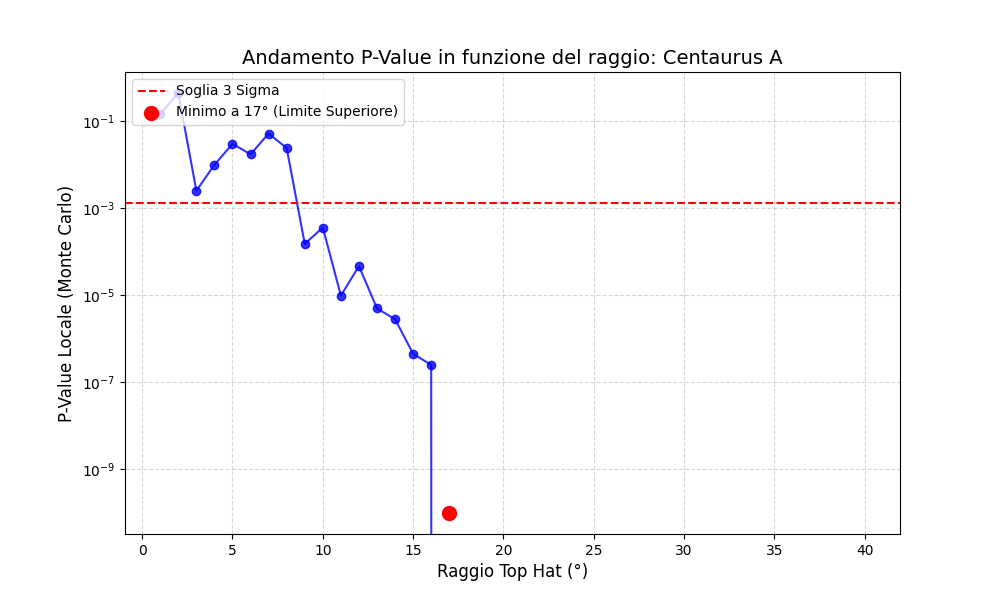
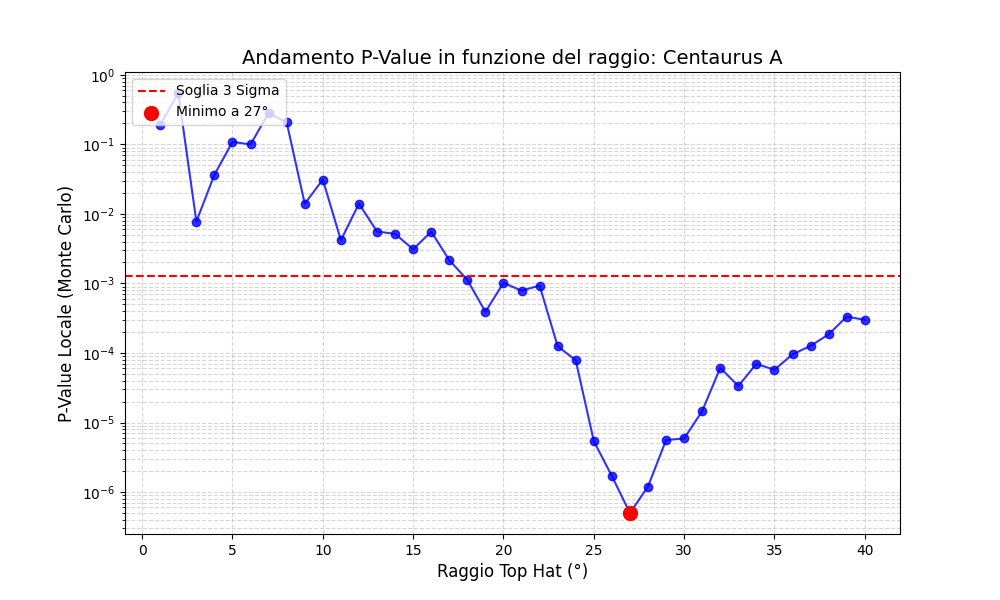
correzione coordinate celesti ed equatoriali

diff --git a/astroNGC5128sEDscan.py b/astroNGC5128sEDscan.py
@@ -1,0 +1,188 @@
+import os
+import pandas as pd
+import numpy as np
+import matplotlib.pyplot as plt
+import healpy as hp
+import scipy.stats as stats
+import time
+from matplotlib.colors import LogNorm
+from astropy.coordinates import SkyCoord
+import astropy.units as u
+
+def carica_dati(filepath):
+    """Carica e pulisce il dataset di Auger."""
+    df = pd.read_csv(filepath, sep='\t+', engine='python')
+    df.columns = [c.strip().replace('#', '') for c in df.columns]
+    return df
+
+def calcola_distanza_angolare(ra1, dec1, ra2, dec2):
+    """Calcola la distanza angolare sferica tra due punti in gradi."""
+    ra1_rad, dec1_rad = np.radians(ra1), np.radians(dec1)
+    ra2_rad, dec2_rad = np.radians(ra2), np.radians(dec2)
+    
+    cos_theta = (np.sin(dec1_rad) * np.sin(dec2_rad) + 
+                 np.cos(dec1_rad) * np.cos(dec2_rad) * np.cos(ra1_rad - ra2_rad))
+    cos_theta = np.clip(cos_theta, -1.0, 1.0) 
+    return np.degrees(np.arccos(cos_theta))
+
+def calcola_frazione_esposizione(expo_map, ra_src, dec_src, raggi):
+    """
+    Calcola analiticamente la frazione di esposizione totale contenuta 
+    in vari raggi attorno alla sorgente usando Healpy.
+    """
+    nside = hp.get_nside(expo_map)
+    expo_pulita = np.where(expo_map > 0, expo_map, 0)
+    tot_expo = np.sum(expo_pulita)
+    
+    # CONVERSIONE: Da Coordinate Equatoriali (RA, Dec) a Galattiche (l, b)
+    c = SkyCoord(ra=ra_src*u.degree, dec=dec_src*u.degree, frame='icrs')
+    l_gal = c.galactic.l.degree
+    b_gal = c.galactic.b.degree
+    
+    # Vettore 3D della sorgente per healpy (usando la colatitudine galattica)
+    vec_src = hp.ang2vec(np.radians(90 - b_gal), np.radians(l_gal))
+    
+    frazioni = np.zeros(len(raggi))
+    for i, r in enumerate(raggi):
+        # Trova tutti i pixel dentro il raggio specificato
+        pixel_in_raggio = hp.query_disc(nside, vec_src, np.radians(r))
+        # Somma l'esposizione di questi pixel e dividi per il totale
+        frazioni[i] = np.sum(expo_pulita[pixel_in_raggio]) / tot_expo
+        
+    return frazioni
+
+def scan_2d_energia_raggio(df, frazioni_attese, ra_src, dec_src, raggi, energie):
+    """
+    Esegue lo scan bidimensionale. Per ogni energia e ogni raggio calcola 
+    il p-value di Poisson rispetto all'isotropia pesata.
+    """
+    p_values_2d = np.zeros((len(energie), len(raggi)))
+    osservati_2d = np.zeros((len(energie), len(raggi)))
+    attesi_2d = np.zeros((len(energie), len(raggi)))
+    
+    distanze_all = calcola_distanza_angolare(df['RA'], df['Dec'], ra_src, dec_src)
+    
+    min_pval = 1.0
+    best_E = 0
+    best_R = 0
+    best_oss = 0
+    best_att = 0
+
+    print("\n---> Avvio Scan 2D (Energia vs Raggio)...")
+    
+    for i, e_th in enumerate(energie):
+        maschera_energia = df['E'] >= e_th
+        n_eventi_totali_rimasti = np.sum(maschera_energia)
+        distanze_tagliate = distanze_all[maschera_energia]
+        
+        for j, r in enumerate(raggi):
+            oss = np.sum(distanze_tagliate <= r)
+            att = n_eventi_totali_rimasti * frazioni_attese[j]
+            
+            if oss > 0:
+                pval = stats.poisson.sf(oss - 1, att)
+            else:
+                pval = 1.0
+                
+            p_values_2d[i, j] = pval
+            osservati_2d[i, j] = oss
+            attesi_2d[i, j] = att
+            
+            if pval < min_pval:
+                min_pval = pval
+                best_E = e_th
+                best_R = r
+                best_oss = oss
+                best_att = att
+
+    print("=========================================================")
+    print(" RISULTATI SCAN 2D: MASSIMO ECCESSO LOCALE TROVATO")
+    print("=========================================================")
+    print(f" Energia di Soglia (E_th) : >= {best_E} EeV")
+    print(f" Raggio (Top-Hat)         : {best_R}°")
+    print(f" Eventi Osservati         : {best_oss}")
+    print(f" Eventi Attesi dal fondo  : {best_att:.2f}")
+    print(f" P-Value (Poisson)        : {min_pval:.3e}")
+    print(f" Significatività (Sigma)  : {stats.norm.isf(min_pval):.2f} σ")
+    print("=========================================================\n")
+
+    return p_values_2d, min_pval, best_E, best_R
+
+def plot_heatmap_2d(p_values_2d, raggi, energie, best_E, best_R, out_dir):
+    """Genera la mappa di calore 2D (Energia vs Raggio) in stile Auger."""
+    os.makedirs(out_dir, exist_ok=True)
+    
+    plt.figure(figsize=(10, 7))
+    
+    R_mesh, E_mesh = np.meshgrid(
+        np.append(raggi - 0.5, raggi[-1] + 0.5), 
+        np.append(energie - 0.5, energie[-1] + 0.5)
+    )
+    
+    mesh = plt.pcolormesh(R_mesh, E_mesh, p_values_2d, 
+                          norm=LogNorm(vmin=1e-7, vmax=1.0), 
+                          cmap='hot_r', shading='flat')
+    
+    cbar = plt.colorbar(mesh)
+    cbar.set_label('Local P-Value', fontsize=14)
+    
+    # Sintassi r"..." usata per evitare i SyntaxWarning
+    plt.scatter(best_R, best_E, color='white', marker='P', s=200, edgecolors='black', 
+                label=rf'Minimo Locale ({best_R}°, $\geq${best_E} EeV)')
+    
+    plt.title('Scan 2D P-Value: Regione di Centaurus A', fontsize=16)
+    plt.xlabel(r'Raggio Top-Hat, $\Psi$ [gradi]', fontsize=14)
+    plt.ylabel(r'Energia di Soglia, $E_{th}$ [EeV]', fontsize=14)
+    
+    plt.xlim(raggi[0]-0.5, raggi[-1]+0.5)
+    plt.ylim(energie[0]-0.5, energie[-1]+0.5)
+    plt.legend(loc='lower left')
+    plt.grid(True, which='both', linestyle='--', alpha=0.3, color='black')
+    
+    save_path = os.path.join(out_dir, 'fig5_centaurus_2d_scan.png')
+    plt.savefig(save_path, bbox_inches='tight', dpi=300)
+    plt.close()
+    
+    print(f"Heatmap 2D salvata in: {save_path}")
+
+if __name__ == "__main__":
+    
+    RA_CEN_A = 201.3
+    DEC_CEN_A = -43.0
+    
+    cartella_output = 'plotsNGC5128_Scan2D'
+    file_dati = 'auger.txt'
+    file_esposizione = 'exposure.fits'
+    
+    RAGGI_SCAN = np.arange(1.0, 31.0, 1.0)       
+    ENERGIE_SCAN = np.arange(32.0, 81.0, 1.0)    
+    
+    os.makedirs(cartella_output, exist_ok=True)
+    start_total_time = time.perf_counter()
+    
+    dataset = carica_dati(file_dati)
+    print(f"Dati caricati: {len(dataset)} eventi trovati.")
+    
+    try:
+        expo_map = hp.read_map(file_esposizione)
+        nside = hp.get_nside(expo_map)
+        print(f"Mappa Healpix caricata (NSIDE={nside}).")
+    except Exception as e:
+        print(f"ERRORE: Impossibile caricare {file_esposizione}.")
+        exit()
+        
+    print(f"Calcolo esatto delle frazioni di esposizione attorno a Cen A...")
+    frazioni_attese = calcola_frazione_esposizione(expo_map, RA_CEN_A, DEC_CEN_A, RAGGI_SCAN)
+    
+    p_values_2d, p_min, b_E, b_R = scan_2d_energia_raggio(
+        df=dataset, 
+        frazioni_attese=frazioni_attese, 
+        ra_src=RA_CEN_A, dec_src=DEC_CEN_A, 
+        raggi=RAGGI_SCAN, 
+        energie=ENERGIE_SCAN
+    )
+    
+    plot_heatmap_2d(p_values_2d, RAGGI_SCAN, ENERGIE_SCAN, b_E, b_R, cartella_output)
+    
+    end_total_time = time.perf_counter()
+    print(f"\nOperazione completata in {end_total_time - start_total_time:.2f} secondi.")

diff --git a/astroNGC5128CutE.py b/astroNGC5128CutE.py
@@ -6,6 +6,8 @@ import healpy as hp
 import scipy.stats as stats
 import time
 from numba import njit, prange
+from astropy.coordinates import SkyCoord
+import astropy.units as u
 
 def carica_dati(filepath):
     """Carica e pulisce il dataset di Auger."""
@@ -38,8 +40,14 @@ def genera_cielo_isotropo_pesato(expo_map, n_eventi):
     nside = hp.npix2nside(n_pixel_totali)
     theta, phi = hp.pix2ang(nside, indici_estratti)
     
-    ra = np.degrees(phi)
-    dec = 90.0 - np.degrees(theta)
+    # I pixel estratti sono in coordinate Galattiche (l, b)
+    l_gal = np.degrees(phi)
+    b_gal = 90.0 - np.degrees(theta)
+    
+    # Convertiamo in coordinate Equatoriali (RA, Dec)
+    c = SkyCoord(l=l_gal*u.degree, b=b_gal*u.degree, frame='galactic')
+    ra = c.icrs.ra.degree
+    dec = c.icrs.dec.degree
     
     return ra, dec
 
@@ -55,9 +63,16 @@ def prepara_dati_numba(expo_map):
     nside = hp.npix2nside(n_pixel_totali)
     theta, phi = hp.pix2ang(nside, np.arange(n_pixel_totali))
     
+    # I pixel estratti sono in coordinate Galattiche (l, b)
+    l_gal = np.degrees(phi)
+    b_gal = 90.0 - np.degrees(theta)
+    
+    # Convertiamo in coordinate Equatoriali (RA, Dec) per il match corretto
+    c = SkyCoord(l=l_gal*u.degree, b=b_gal*u.degree, frame='galactic')
+    
     # Convertiamo tutto in radianti per velocizzare Numba
-    pixel_ra_rad = phi
-    pixel_dec_rad = (np.pi / 2.0) - theta
+    pixel_ra_rad = c.icrs.ra.radian
+    pixel_dec_rad = c.icrs.dec.radian
     
     return pixel_cdf, pixel_ra_rad, pixel_dec_rad
 
@@ -311,8 +326,10 @@ def mappa_eventi_casuali(expo_map, dizionario_sorgenti, n_eventi=2635, base_dir=
     
     plt.figure(figsize=(12, 7))
     
+    # IMPORTANTE: Aggiunto coord=['G', 'C'] per dire ad healpy di ruotare
+    # la mappa di sfondo da Galattica a Equatoriale per la visualizzazione!
     hp.mollview(expo_map, hold=True, title=f"Cielo Finto Monte Carlo ({n_eventi} eventi)", 
-                cmap='viridis', unit='Esposizione Relativa', coord=['C'])
+                cmap='viridis', unit='Esposizione Relativa', coord=['G', 'C'])
     hp.graticule()
 
     hp.projscatter(ra, dec, lonlat=True, coord='C', 
@@ -345,7 +362,7 @@ if __name__ == "__main__":
     file_esposizione = 'exposure.fits'
     
     raggio_di_ricerca = 15.0  
-    NUM_SIMULAZIONI = 20000000
+    NUM_SIMULAZIONI = 10_000_000
     
     os.makedirs(cartella_output, exist_ok=True)
     start_total_time = time.perf_counter()